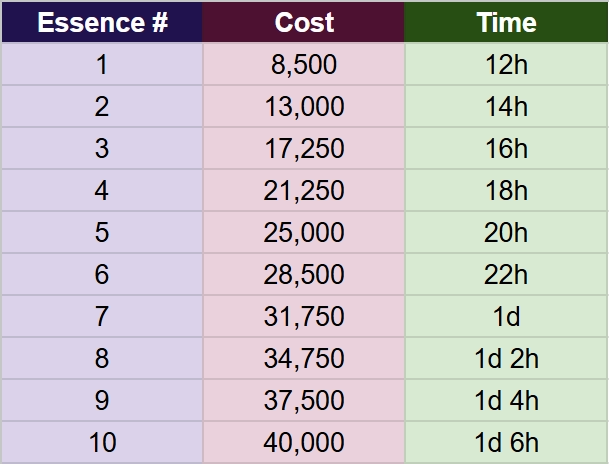
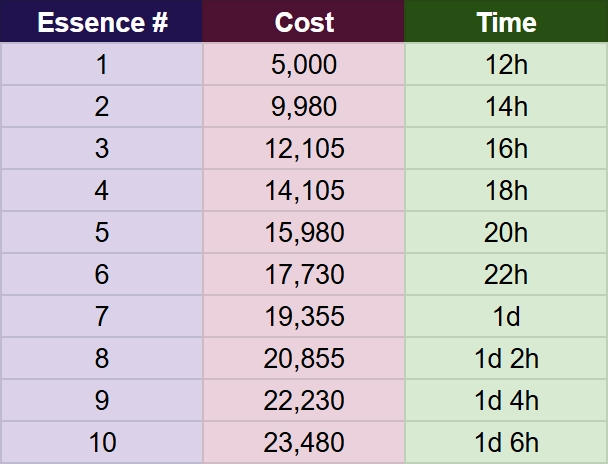
Add info about currency

diff --git a/index.html b/index.html
@@ -18,38 +18,55 @@
 
 <body>
     <center>
-        
-        <p style="font-size: 30px;">The Hypernaturals are a series of five fanmade MSM islands, each with new unstable Natural-Ethereal hybrids.</p>
-        <br><h1 style="font-size: 40px;">Islands</h1>
+
+        <p style="font-size: 30px;">The Hypernaturals are a series of five fanmade MSM islands, each with new unstable
+            Natural-Ethereal hybrids.</p>
+        <br>
+        <h1 style="font-size: 40px;">Islands</h1>
         <div class="SplitScreen">
-                <div class="button1"><a href="/h1/">Plasma Passage</a></div>
-                <div class="button2"><a href="/h2/">Shadow ???</a></div>
-                <div class="button3"><a href="/h3/">Mech ???</a></div>
-                <div class="button4"><a href="/h4/">Crystal ???</a></div>
-                <div class="button5"><a href="/h5/">Poison ???</a></div>
+            <div class="button1"><a href="/h1/">Plasma Passage</a></div>
+            <div class="button2"><a href="/h2/">Shadow ???</a></div>
+            <div class="button3"><a href="/h3/">Mech ???</a></div>
+            <div class="button4"><a href="/h4/">Crystal ???</a></div>
+            <div class="button5"><a href="/h5/">Poison ???</a></div>
         </div>
-        
+
         <br>
         <div class="SplitScreen">
-            <p style="font-size: 30px">These islands work through a new feature: Ethereal Essences! Essences are used to obtain hypernatural monsters.
-                On the surface, they appear to be the Natural Essences from Dawn of Fire, however the ethereals' instability in the mirror timeline
-                caused these Essences to be imbued with the ethereal elements. Ethereal Essences can created using the Deconstructor! This structure
-            acts as both the castle and the way to obtain Essence. The Deconstructor allows you to spend Shards to conjure up to ten Ethereal Essence
-        at a time. A chard of cost and time can be found below.</p><a></a>
-                <img src="/media/mockupDScreen.webp" style="width: 40%; border-radius: 25px;" title="An in-game mockup, featuring a menu showing 10 essence for 40,000 shards. It will take 1d 6h.">
+            <p style="font-size: 30px">These islands work through a new feature: Ethereal Essences! Essences are used to
+                obtain hypernatural monsters.
+                On the surface, they appear to be the Natural Essences from Dawn of Fire, however the ethereals'
+                instability in the mirror timeline
+                caused these Essences to be imbued with the ethereal elements. Ethereal Essences can created using the
+                Deconstructor! This structure
+                acts as both the castle and the way to obtain Essence. The Deconstructor allows you to spend Shards to
+                conjure up to ten Ethereal Essence
+                at a time. A chard of cost and time can be found below.</p><a></a>
+            <img src="/media/mockupDScreen.webp" style="width: 40%; border-radius: 25px;"
+                title="An in-game mockup, featuring a menu showing 10 essence for 40,000 shards. It will take 1d 6h.">
         </div><br>
         <div class="SplitScreen">
-            <p style="font-size: 30px">Once you've collected some Ethereal Essence, you can upgrade the breeding structure to become the Infused breeding
-                Structure! This upgrade allows the structure to be able to infuse natural monsters with the ethereal Essence. Here, you can select a monster
-                to infuse the Essence with. The more elements a monster has, the lower the chances of success are. You can increase your chances by using more
+            <p style="font-size: 30px">Once you've collected some Ethereal Essence, you can upgrade the breeding
+                structure to become the Infused breeding
+                Structure! This upgrade allows the structure to be able to infuse natural monsters with the ethereal
+                Essence. Here, you can select a monster
+                to infuse the Essence with. The more elements a monster has, the lower the chances of success are. You
+                can increase your chances by using more
                 ethereal Essence.
             </p> <a></a>
-                <img src="/media/mockupScreen.webp" style="width: 40%; border-radius: 25px;" title="An in-game mockup, showing a list of natural monsters and buttons to select the amount of Essence.">
+            <img src="/media/mockupScreen.webp" style="width: 40%; border-radius: 25px;"
+                title="An in-game mockup, showing a list of natural monsters and buttons to select the amount of Essence.">
         </div><br>
         <p style="font-size: 20px;">Deconstructor chart</p>
-        <img src="/media/essence_chart.webp" style="width: 20%; border-radius: 25px;" title="A chart showing how muchtime and shards a certain amount of Essence costs.">
-        <p style="font-size: 15px;">Shard cost formula: f(x)=f(x-1)+(5000-(x*250)) f(1)=8500</p>
-        <p style="font-size: 15px;">Hours start at 12 and increment by 2.</p><br><br>
+        <img src="/media/essence_chart.webp" style="width: 20%; border-radius: 25px;"
+            title="A chart showing how muchtime and shards a certain amount of Essence costs.">
+        <p style="font-size: 15px;">Shard cost formula: f(x)=f(x-1)+(5000-(x*10)) f(1)=5000</p>
+        <p style="font-size: 15px;">Hours start at twelve and increase by two.</p><br><br>
+        <p style="font-size: 30px">All five islands take place in the mirror dimension. These islands' main currency is <img src="/media/shard.webp" style="width: 2%;">shards, however they can produce both
+            <img src="/media/coin.webp" style="width: 1.4%;">coins and <img src="/media/shard.webp" style="width: 2%;">shards. Natural
+            monsters will produce <img src="/media/coin.webp" style="width: 1.4%;">coins and hypernaturals will produce <img src="/media/shard.webp" alt="shards" style="width: 2%;">shards.
+        </p>
+        <br><br>
         <div class="button0"><a href="/fankit/">Fankit</a></div>
         <br><br>
 </body>
